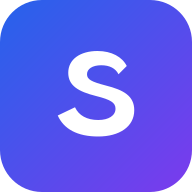
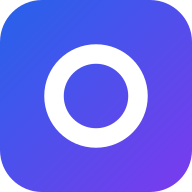
Rename the product to Opnyx
Brand text, page titles, PWA manifest and a new "O" app icon.

Changed region(s): [[0.2188, 0.2188, 0.7812, 0.7812], [0.5625, 0.3438, 0.5938, 0.375]]

diff --git a/app/my-appointments/page.tsx b/app/my-appointments/page.tsx
@@ -1,7 +1,7 @@
 import Link from 'next/link';
 import MyAppointmentsList from '@/app/components/MyAppointmentsList';
 
-export const metadata = { title: 'התורים שלי | Site-AI' };
+export const metadata = { title: 'התורים שלי | Opnyx' };
 
 // המקום הקבוע של הלקוח: כל התורים שקבע, בכל האתרים, מהחשבון שלו.
 export default function MyAppointmentsPage() {
@@ -9,7 +9,7 @@ export default function MyAppointmentsPage() {
     <div dir="rtl" className="min-h-screen bg-gray-50 font-sans">
       <nav className="bg-white border-b border-gray-200">
         <div className="max-w-2xl mx-auto px-6 h-16 flex items-center justify-between">
-          <Link href="/" className="text-xl font-black text-gray-900">Site<span className="text-purple-500">-AI</span></Link>
+          <Link href="/" className="text-xl font-black text-gray-900">Opn<span className="text-purple-500">yx</span></Link>
           <Link href="/dashboard" className="text-sm font-bold text-gray-600 hover:text-gray-900 px-2 py-2">לדשבורד</Link>
         </div>
       </nav>

diff --git a/app/page.tsx b/app/page.tsx
@@ -9,7 +9,7 @@ export default function HomePage() {
         <div className="flex items-center gap-2 cursor-pointer">
           <Link href="/">
             <span className="text-2xl font-black tracking-tight">
-              Site<span className="text-purple-400">-AI</span>
+              Opn<span className="text-purple-400">yx</span>
             </span>
           </Link>
         </div>
@@ -214,7 +214,7 @@ export default function HomePage() {
 
       {/* פוטר */}
       <footer className="border-t border-white/10 py-8 text-center text-slate-500 text-sm relative z-10 flex flex-col md:flex-row justify-between items-center max-w-7xl mx-auto px-6 gap-4">
-        <p>© 2026 Site-AI. כל הזכויות שמורות.</p>
+        <p>© 2026 Opnyx. כל הזכויות שמורות.</p>
         <div className="flex gap-6">
           <Link href="/terms" className="hover:text-slate-300 transition-colors">תקנון ותנאי שימוש</Link>
           <Link href="/login" className="hover:text-slate-300 transition-colors">התחברות</Link>

diff --git a/app/dashboard/page.tsx b/app/dashboard/page.tsx
@@ -295,7 +295,7 @@ export default function DashboardPage() {
                   <span>💳</span>
                 </button>
                 <a
-                  href={supportWhatsappUrl(isPro ? 'היי, אני מנוי Pro ואשמח לעזרה עם האתר שלי.' : 'היי, אשמח לשמוע פרטים נוספים על חבילת ה-Pro של SiteAI.')}
+                  href={supportWhatsappUrl(isPro ? 'היי, אני מנוי Pro ואשמח לעזרה עם האתר שלי.' : 'היי, אשמח לשמוע פרטים נוספים על חבילת ה-Pro של Opnyx.')}
                   target="_blank"
                   rel="noopener noreferrer"
                   className="px-4 py-3 text-right hover:bg-green-50 text-green-700 border-b transition font-medium flex justify-between items-center"

diff --git a/app/components/SiteView.tsx b/app/components/SiteView.tsx
@@ -59,7 +59,7 @@ export default function SiteView({ siteData, siteId, isPreview = false, demo = f
     <div dir="rtl" className="min-h-screen font-sans bg-white relative pb-32">
       {demo && (
         <div className="bg-gray-900 text-white px-4 py-3 flex flex-wrap items-center justify-center gap-3 text-sm font-bold">
-          <span>זהו אתר דוגמה שנוצר ב-Site-AI.</span>
+          <span>זהו אתר דוגמה שנוצר ב-Opnyx.</span>
           <Link href="/create" className="bg-white text-gray-900 px-4 py-1.5 rounded-full hover:bg-gray-100">צור אתר כזה לעסק שלך</Link>
           <Link href="/#templates" className="text-gray-300 underline">חזרה לדוגמאות</Link>
         </div>

diff --git a/app/demo/[slug]/page.tsx b/app/demo/[slug]/page.tsx
@@ -10,7 +10,7 @@ export function generateStaticParams() {
 export async function generateMetadata({ params }: { params: Promise<{ slug: string }> }): Promise<Metadata> {
   const { slug } = await params;
   const demo = getDemoSite(slug);
-  return { title: demo ? `${demo.content.businessName} (אתר דוגמה) | Site-AI` : 'Site-AI' };
+  return { title: demo ? `${demo.content.businessName} (אתר דוגמה) | Opnyx` : 'Opnyx' };
 }
 
 export default async function DemoSitePage({ params }: { params: Promise<{ slug: string }> }) {

diff --git a/app/accessibility/page.tsx b/app/accessibility/page.tsx
@@ -1,8 +1,8 @@
 import { Metadata } from 'next';
 
 export const metadata: Metadata = {
-  title: 'הצהרת נגישות | SiteAI',
-  description: 'הצהרת הנגישות והתאמות הנגישות שבוצעו באתר SiteAI',
+  title: 'הצהרת נגישות | Opnyx',
+  description: 'הצהרת הנגישות והתאמות הנגישות שבוצעו באתר Opnyx',
 };
 
 export default function AccessibilityPage() {

diff --git a/app/login/page.tsx b/app/login/page.tsx
@@ -62,7 +62,7 @@ export default function LoginPage() {
             <span className="text-4xl text-white">✨</span>
           </div>
           <h1 className="text-3xl font-black text-gray-900 tracking-tight">
-            SiteAI
+            Opnyx
           </h1>
           <p className="text-gray-500 mt-2 font-medium">
             {isLogin ? 'ברוכים השבים למערכת' : 'הצטרפו למהפכת האתרים'}

diff --git a/app/manifest.ts b/app/manifest.ts
@@ -3,8 +3,8 @@ import type { MetadataRoute } from 'next';
 export default function manifest(): MetadataRoute.Manifest {
   return {
     id: '/',
-    name: 'SiteAI - מחולל אתרים לעסקים',
-    short_name: 'SiteAI',
+    name: 'Opnyx - מחולל אתרים לעסקים',
+    short_name: 'Opnyx',
     description: 'צור אתר מקצועי לעסק שלך תוך 2 דקות',
     lang: 'he',
     dir: 'rtl',

diff --git a/app/utils/config.ts b/app/utils/config.ts
@@ -1,4 +1,4 @@
-// מספר הוואטסאפ של התמיכה של SiteAI (בפורמט בינלאומי, בלי + ובלי 0 בתחילה).
+// מספר הוואטסאפ של התמיכה של Opnyx (בפורמט בינלאומי, בלי + ובלי 0 בתחילה).
 // זה המקום היחיד שבו צריך להחליף אותו.
 export const SUPPORT_WHATSAPP = '972509388865';
 

diff --git a/app/layout.tsx b/app/layout.tsx
@@ -9,11 +9,11 @@ const inter = Inter({
 });
 
 export const metadata: Metadata = {
-  title: "SiteAI",
+  title: "Opnyx",
   description: "AI-powered landing page generator",
   appleWebApp: {
     capable: true,
-    title: "SiteAI",
+    title: "Opnyx",
     statusBarStyle: "default",
   },
 };
